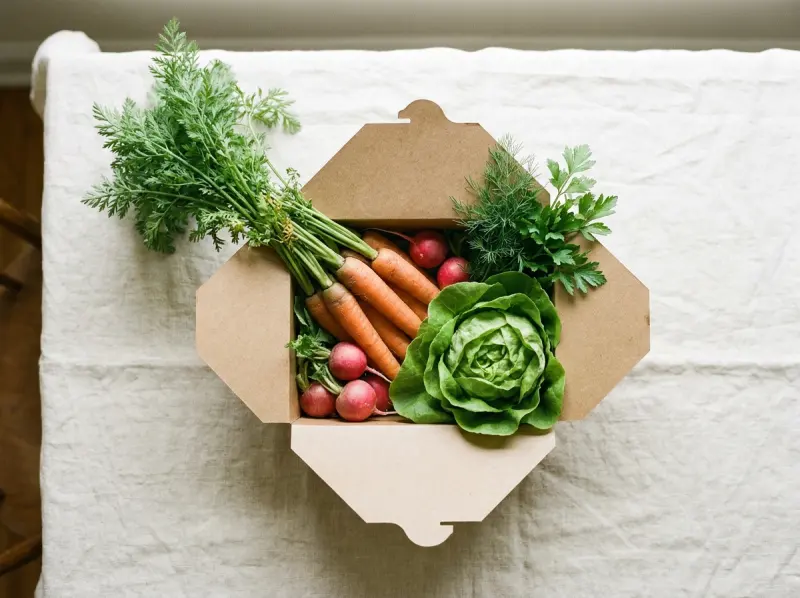
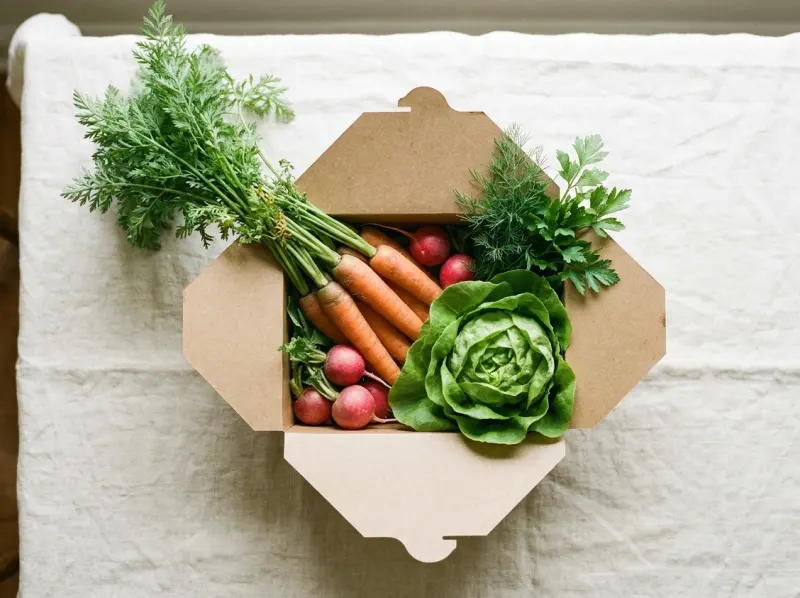
docs(demo): Vite serves the shop from apps.ts, cropped photos, phone layout

diff --git a/docs/demo/apps.ts b/docs/demo/apps.ts
@@ -1,58 +1,36 @@
-// Two tiny apps for the demo recordings: a carrot shop on 5174 and its API on 3000.
-const STYLE = `
-  body { margin: 0; font: 17px/1.5 system-ui, sans-serif; background: #fff8ef; color: #2b2118; }
-  header { display: flex; gap: 28px; align-items: center; padding: 18px 48px; background: #ff8a3d; color: #fff; }
-  header strong { font-size: 24px; margin-right: auto; }
-  header a { color: #fff; text-decoration: none; font-weight: 600; }
-  main { padding: 28px 48px; }
-  h1 { margin: 0 0 20px; }
-  .grid { display: grid; grid-template-columns: repeat(3, 1fr); gap: 24px; }
-  .card { background: #fff; border-radius: 18px; padding: 24px; box-shadow: 0 6px 20px rgb(0 0 0 / 8%); }
-  .card b { display: block; font-size: 56px; }
-  button { font: inherit; font-weight: 700; border: 0; border-radius: 999px; padding: 10px 22px;
-    background: #2b2118; color: #fff; white-space: nowrap; }
-  .basket { max-width: 460px; display: grid; gap: 12px; }
-  .line { display: flex; justify-content: space-between; }
-  /* The bug the demo is about: the pay button does not fit. */
-  .pay { width: 110px; overflow: hidden; }
-  .pay button { background: #ff8a3d; }
-`;
+// The demo recordings' apps: Verdure, a React shop served by Vite in
+// development on 5174 (so pointed elements carry their source file), and its
+// API on 3000.
+import react from "@vitejs/plugin-react";
+import { join } from "node:path";
+import { createServer } from "vite";
 
-const page = (title: string, body: string) =>
-  new Response(
-    `<!doctype html><meta name="viewport" content="width=device-width">
-<title>${title}</title><style>${STYLE}</style>
-<header><strong>🥕 Carrot shop</strong><a href="/">Shop</a><a href="/checkout">Checkout</a></header>
-<main>${body}</main>
-<script>fetch("http://localhost:3000/api/items")</script>`,
-    { headers: { "content-type": "text/html; charset=utf-8" } },
-  );
+const SHOP_PORT = 5174;
+const API_PORT = 3000;
+const SLOTS = ["Thursday 18:00-20:00", "Thursday 20:00-22:00"];
 
-const SHOP = `<h1>Fresh from the garden</h1><div class="grid">
-${[["🥕", "Carrots", "2 €"], ["🥬", "Lettuce", "3 €"], ["🌱", "Radishes", "1 €"]]
-  .map(([icon, name, price]) => `<div class="card"><b>${icon}</b><h3>${name}</h3><p>${price} a bunch</p><button>Add to basket</button></div>`)
-  .join("")}</div>`;
-
-const CHECKOUT = `<h1>Your basket</h1><div class="card basket">
-<div class="line"><span>🥕 Carrots × 2</span><span>4 €</span></div>
-<div class="line"><span>🌱 Radishes × 2</span><span>2 €</span></div>
-<div class="line"><strong>Total</strong><strong>6 €</strong></div>
-<div class="pay"><button>Pay 6 € now</button></div></div>`;
-
-Bun.serve({
-  port: 5174,
-  fetch(req) {
-    const { pathname } = new URL(req.url);
-    if (pathname === "/") return page("Carrot shop", SHOP);
-    if (pathname === "/checkout") return page("Checkout", CHECKOUT);
-    return new Response("nope", { status: 404 });
-  },
+const shop = await createServer({
+  configFile: false,
+  root: join(import.meta.dir, "shop"),
+  plugins: [react()],
+  // Visitors come through the tunnel's host name.
+  server: { port: SHOP_PORT, strictPort: true, allowedHosts: true },
 });
+await shop.listen();
+
 Bun.serve({
-  port: 3000,
-  fetch(req) {
+  port: API_PORT,
+  async fetch(req) {
     const { pathname } = new URL(req.url);
+    if (pathname === "/api/basket") return Response.json({ lines: 3, total: 57.5 });
+    if (pathname === "/api/slots") return Response.json({ slots: SLOTS });
+    if (pathname === "/api/items") return Response.json({ items: ["carrot", "lettuce", "radish"] });
+    if (pathname === "/api/orders" && req.method === "POST") {
+      await req.text();
+      return Response.json({ error: "payment provider timed out" }, { status: 500 });
+    }
     if (pathname === "/boom") return new Response("boom", { status: 500 });
-    return Response.json({ items: ["carrot", "lettuce", "radish"] });
+    return new Response("not found", { status: 404 });
   },
 });
+console.log(`shop on http://localhost:${SHOP_PORT}, API on http://localhost:${API_PORT}`);

diff --git a/docs/demo/shop/src/styles.css b/docs/demo/shop/src/styles.css
@@ -163,3 +163,12 @@ main { max-width: 1200px; margin: 0 auto; padding: 0 40px; }
   padding: 0 18px; border: 1px solid var(--forest); border-radius: 12px; background: transparent;
   color: var(--forest); font: 600 15px var(--body); cursor: pointer;
 }
+
+@media (max-width: 760px) {
+  .top, main { padding-left: 20px; padding-right: 20px; }
+  .top nav { display: none; }
+  .hero, .section-head, .offers, .week ol, .grower, .voices, .checkout { grid-template-columns: 1fr; gap: 28px; }
+  .hero h1 { font-size: 44px; }
+  .hero-image { height: 320px; }
+  .foot { margin: 0 -20px; flex-direction: column; gap: 8px; }
+}

diff --git a/docs/demo/shop/src/basket.ts b/docs/demo/shop/src/basket.ts
@@ -10,4 +10,4 @@ export const CODES: Record<string, { percent: number }> = {
 };
 
 export const euros = (amount: number) =>
-  amount.toLocaleString("en-GB", { style: "currency", currency: "EUR" });
+  amount.toLocaleString("fr-FR", { style: "currency", currency: "EUR" });
